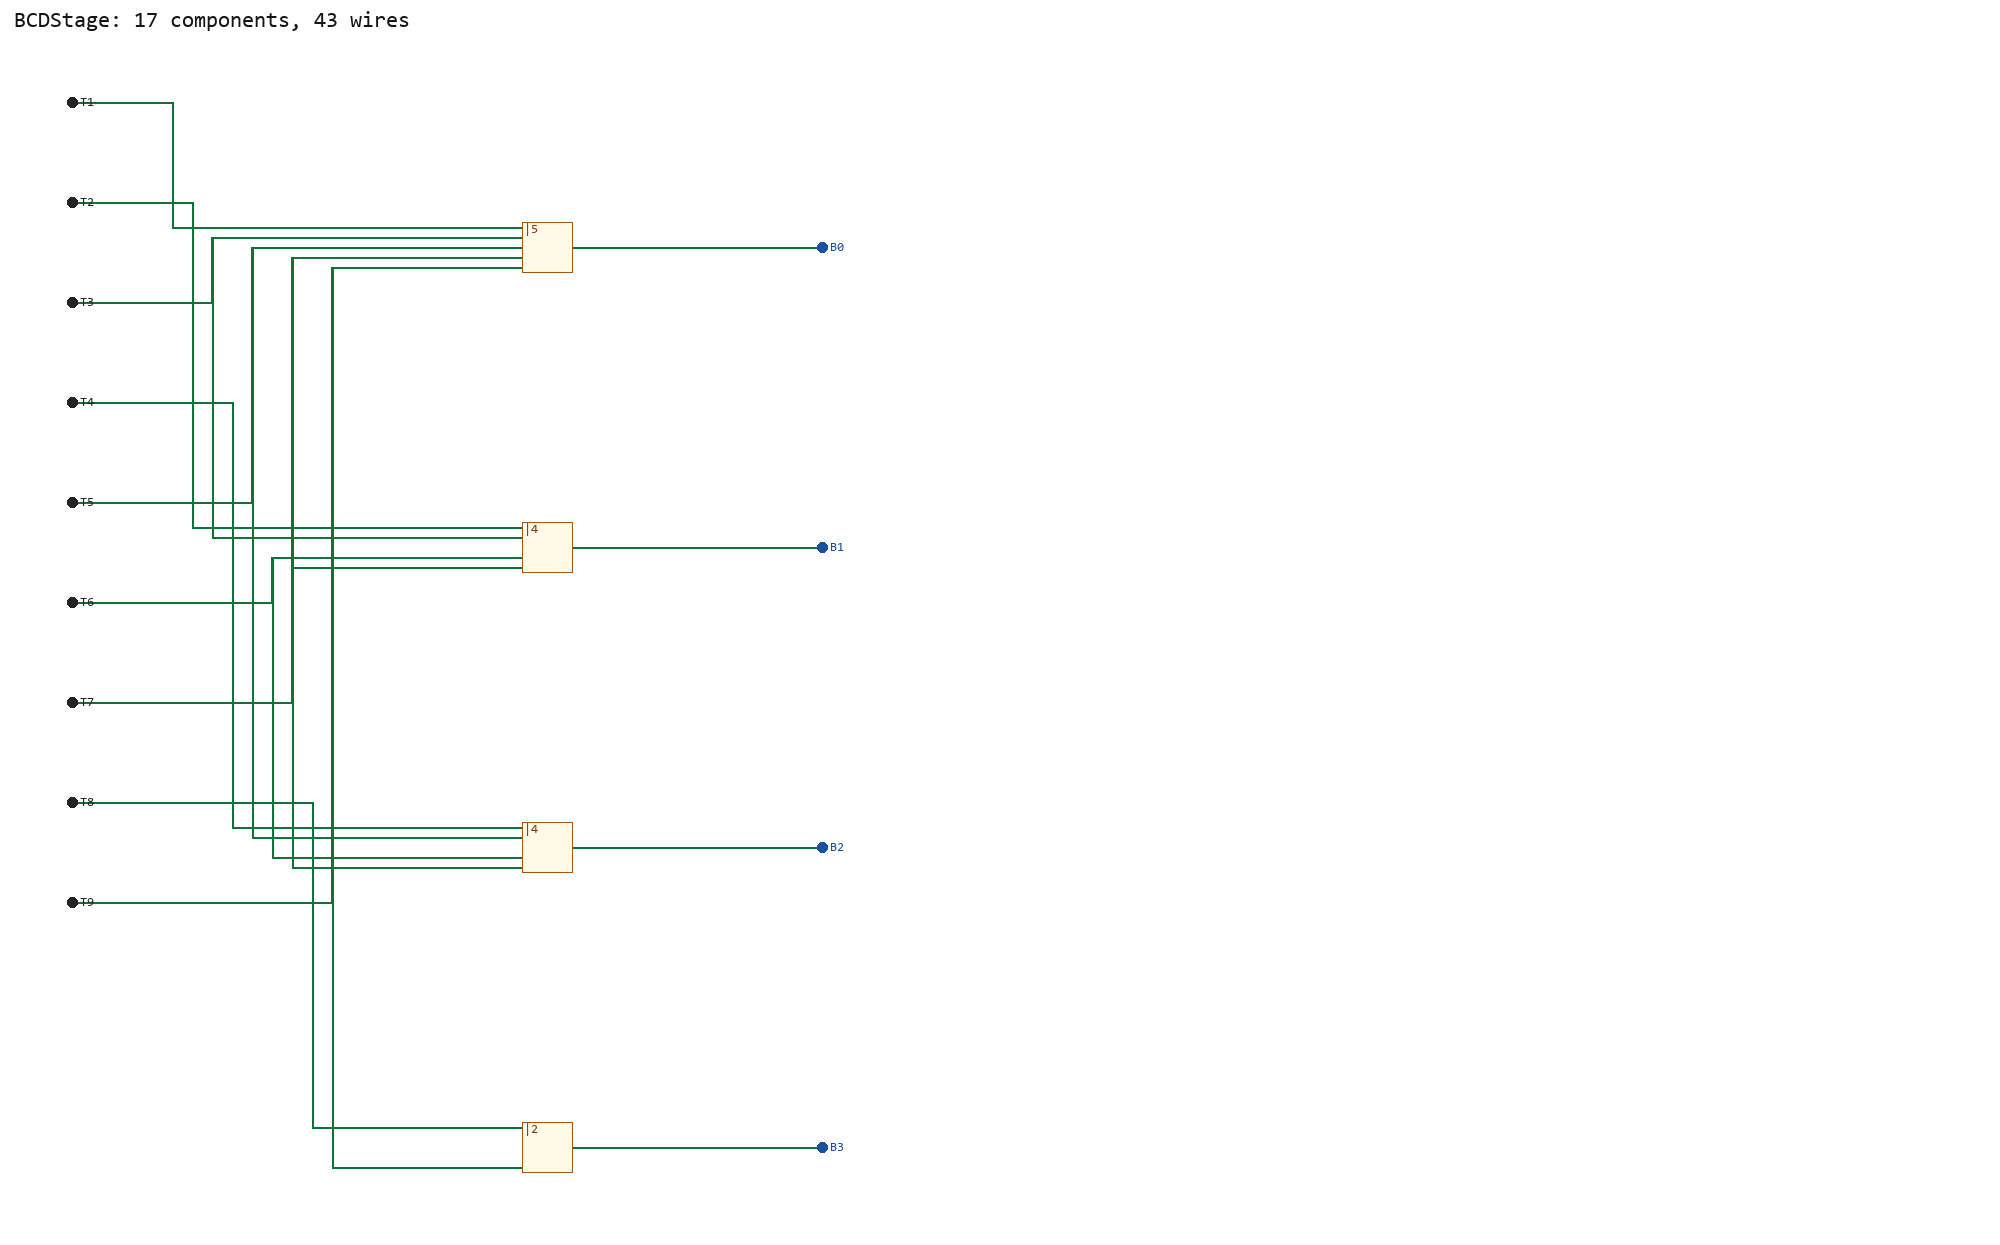
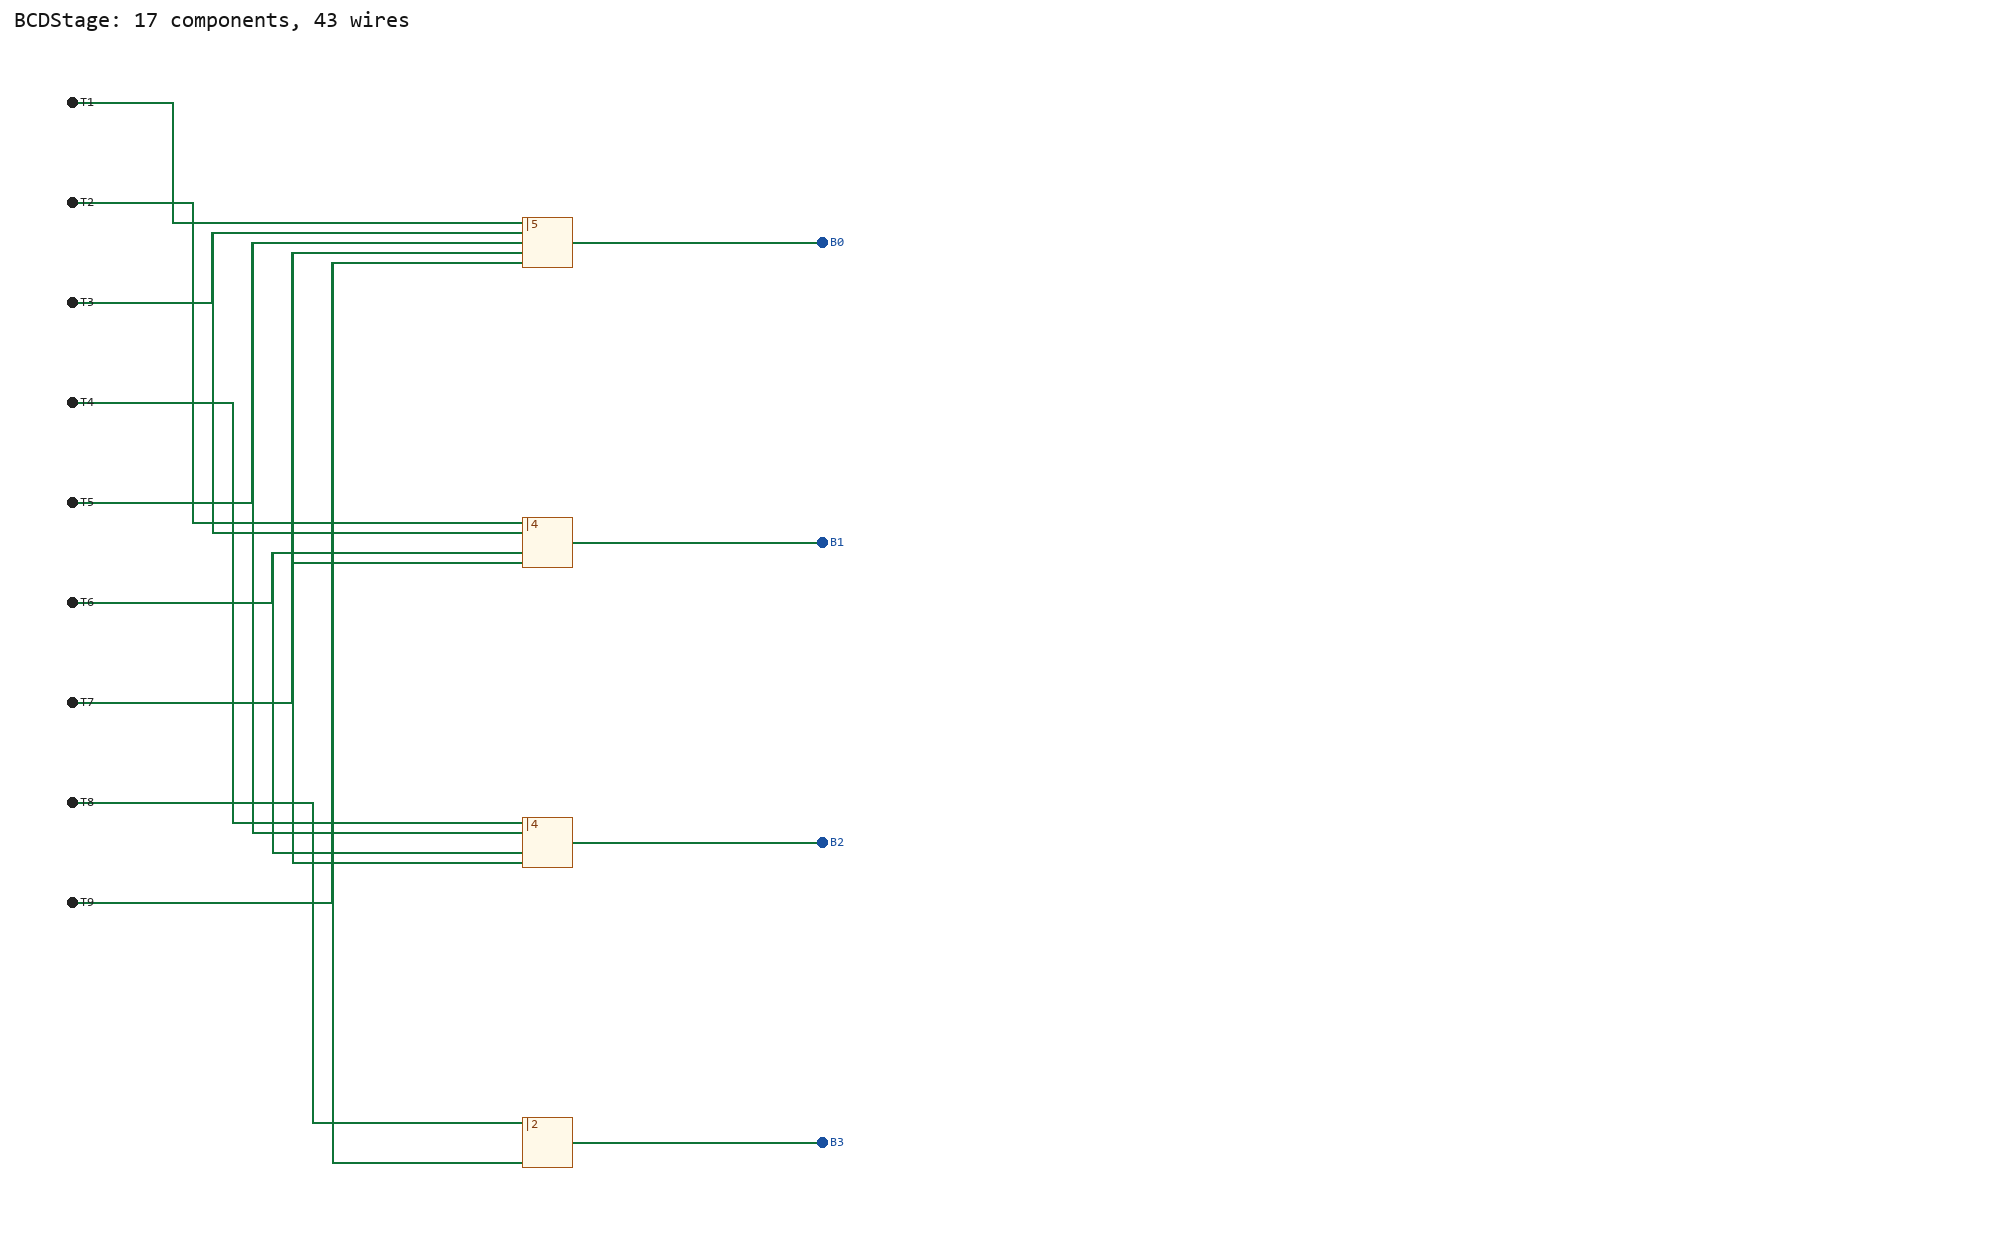
Validate layout coordinates before writing circuits

diff --git a/scripts/generate_hierarchical_keypad.py b/scripts/generate_hierarchical_keypad.py
@@ -365,17 +365,17 @@ def make_bcd_stage() -> Stage:
         pins[digit] = pin
 
     gates = {
-        "B0": Gate("B0", "OR", ("T1", "T3", "T5", "T7", "T9"), (700, 245)),
-        "B1": Gate("B1", "OR", ("T2", "T3", "T6", "T7"), (700, 545)),
-        "B2": Gate("B2", "OR", ("T4", "T5", "T6", "T7"), (700, 845)),
-        "B3": Gate("B3", "OR", ("T8", "T9"), (700, 1145)),
+        "B0": Gate("B0", "OR", ("T1", "T3", "T5", "T7", "T9"), (700, 240)),
+        "B1": Gate("B1", "OR", ("T2", "T3", "T6", "T7"), (700, 540)),
+        "B2": Gate("B2", "OR", ("T4", "T5", "T6", "T7"), (700, 840)),
+        "B3": Gate("B3", "OR", ("T8", "T9"), (700, 1140)),
     }
     stage.gates.extend(gates.values())
     outputs = {
-        "B0": Pin("B0", (950, 245), True, "west"),
-        "B1": Pin("B1", (950, 545), True, "west"),
-        "B2": Pin("B2", (950, 845), True, "west"),
-        "B3": Pin("B3", (950, 1145), True, "west"),
+        "B0": Pin("B0", (950, 240), True, "west"),
+        "B1": Pin("B1", (950, 540), True, "west"),
+        "B2": Pin("B2", (950, 840), True, "west"),
+        "B3": Pin("B3", (950, 1140), True, "west"),
     }
     stage.outputs.extend(outputs.values())
 
@@ -404,6 +404,8 @@ def make_bcd_stage() -> Stage:
 
 def comp(parent: ET.Element, library: str | None, point: Point, name: str,
          attributes: Iterable[tuple[str, str | int]] = ()) -> ET.Element:
+    if point[0] % 10 or point[1] % 10:
+        raise ValueError(f"off-grid component {name} at {point}")
     values = {
         "loc": f"({point[0]},{point[1]})",
         "name": name,
@@ -419,6 +421,8 @@ def comp(parent: ET.Element, library: str | None, point: Point, name: str,
 def wire(parent: ET.Element, start: Point, end: Point) -> None:
     if start == end:
         return
+    if start[0] % 10 or start[1] % 10 or end[0] % 10 or end[1] % 10:
+        raise ValueError(f"off-grid wire {start} -> {end}")
     if start[0] != end[0] and start[1] != end[1]:
         raise ValueError(f"diagonal wire {start} -> {end}")
     ET.SubElement(parent, "wire", {
@@ -476,8 +480,8 @@ def emit_main(root: ET.Element, stages: dict[str, Stage]) -> None:
     circuit = ET.SubElement(root, "circuit", {"name": "main"})
     ET.SubElement(circuit, "a", {"name": "circuit", "val": "main"})
     for text, x, y in (
-        ("DECIMAL KEYPAD PRIORITY ENCODER - HIERARCHICAL DIRECT-WIRE VERSION", 320, 35),
-        ("No Tunnels. PriorityStage -> TermStage -> BCDStage.", 320, 75),
+        ("DECIMAL KEYPAD PRIORITY ENCODER - HIERARCHICAL DIRECT-WIRE VERSION", 320, 40),
+        ("No Tunnels. PriorityStage -> TermStage -> BCDStage.", 320, 80),
     ):
         comp(circuit, "6", (x, y), "Text", (
             ("font", "SansSerif plain 14"), ("halign", "left"),

diff --git a/tests/test_direct_router.py b/tests/test_direct_router.py
@@ -1,7 +1,9 @@
 from __future__ import annotations
 
 import sys
+import tempfile
 import unittest
+import xml.etree.ElementTree as ET
 from pathlib import Path
 from unittest.mock import patch
 
@@ -20,9 +22,12 @@ from generate_hierarchical_keypad import (
     Gate,
     Pin,
     Stage,
+    comp,
     route_stage,
     validate_stage_grid,
+    wire,
 )
+from flat_builder import write_flat_project
 
 
 class DirectRouterTest(unittest.TestCase):
@@ -123,6 +128,29 @@ class DirectRouterTest(unittest.TestCase):
                 Bounds(0, 0, 100, 100),
                 [WireNet("A", ((0, 20), (10, 20)))],
             )
+
+    def test_component_emission_rejects_off_grid_location(self) -> None:
+        root = ET.Element("project")
+        circuit = ET.SubElement(root, "circuit")
+        with self.assertRaisesRegex(ValueError, r"Text.*100, 105"):
+            comp(circuit, "6", (100, 105), "Text")
+
+    def test_wire_emission_rejects_off_grid_endpoint(self) -> None:
+        root = ET.Element("project")
+        circuit = ET.SubElement(root, "circuit")
+        with self.assertRaisesRegex(ValueError, r"off-grid wire"):
+            wire(circuit, (100, 100), (115, 100))
+
+    def test_flat_project_fails_before_writing_off_grid_text(self) -> None:
+        with tempfile.TemporaryDirectory(prefix="off-grid-emission-") as temporary:
+            path = Path(temporary) / "bad.circ"
+            with self.assertRaisesRegex(ValueError, r"Text.*1105"):
+                write_flat_project(
+                    Stage("main"),
+                    path,
+                    [("SELECT", 60, 1105)],
+                )
+            self.assertFalse(path.exists())
 
 
 if __name__ == "__main__":

diff --git a/scripts/flat_builder.py b/scripts/flat_builder.py
@@ -10,6 +10,7 @@ from generate_hierarchical_keypad import (
     Stage,
     comp,
     gate_inputs,
+    validate_stage_grid,
     wire,
 )
 
@@ -56,6 +57,12 @@ def write_flat_project(
     path: Path,
     texts: list[tuple[str, int, int]],
 ) -> None:
+    validate_stage_grid(stage)
+    for text, x, y in texts:
+        if x % 10 or y % 10:
+            raise ValueError(
+                f"off-grid Text {text!r} at ({x},{y})"
+            )
     root = ET.Element("project", {"source": "2.7.1", "version": "1.0"})
     ET.SubElement(root, "lib", {"desc": "#Wiring", "name": "0"})
     ET.SubElement(root, "lib", {"desc": "#Gates", "name": "1"})

diff --git a/scripts/generate_encoder_8to3.py b/scripts/generate_encoder_8to3.py
@@ -234,7 +234,7 @@ def main():
     ET.SubElement(circuit, "a", {"name": "circuit", "val": "main"})
     for text, x, y in (
         ("8-TO-3 PRIORITY ENCODER", 100, 40),
-        ("I7 highest priority; Y2..Y0 binary digit; VALID detects any input.", 100, 75),
+        ("I7 highest priority; Y2..Y0 binary digit; VALID detects any input.", 100, 80),
     ):
         comp(circuit, "6", (x, y), "Text", (
             ("font", "SansSerif plain 14"), ("halign", "left"),

diff --git a/SKILL.md b/SKILL.md
@@ -66,6 +66,9 @@ For large designs, read
 - Top-level manually operated input Pins must explicitly contain
   `<a name="tristate" val="false"/>`. Do not hide functional controls as
   Constants.
+- `write_flat_project`, `comp`, and `wire` reject off-grid coordinates before
+  creating the destination `.circ`. A `+5` coordinate should fail during
+  generation, not after a checker opens the finished file.
 - For buses, set Pin and Splitter widths, fanout, bit mapping, facing, and
   appearance explicitly. Verify branch-to-bit correspondence.
 - For hierarchy, expose exact child Pins and map custom-appearance ports to

diff --git a/references/direct-wire-routing.md b/references/direct-wire-routing.md
@@ -17,6 +17,9 @@ gate-level circuit must remain readable as one flat diagram.
 
 `route_stage` runs these checks before and after routing. `check_circ.py` and
 the universal model also report off-grid coordinates and implicit T junctions.
+The shared flat emitter validates the complete Stage and its Text annotations
+before writing XML; custom emitters call `comp()` and `wire()`, which reject
+off-grid component anchors and wire endpoints immediately.
 
 ## Choose A Routing Mode
 
